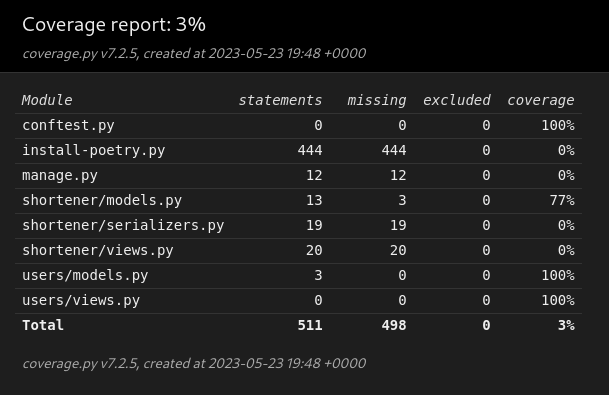
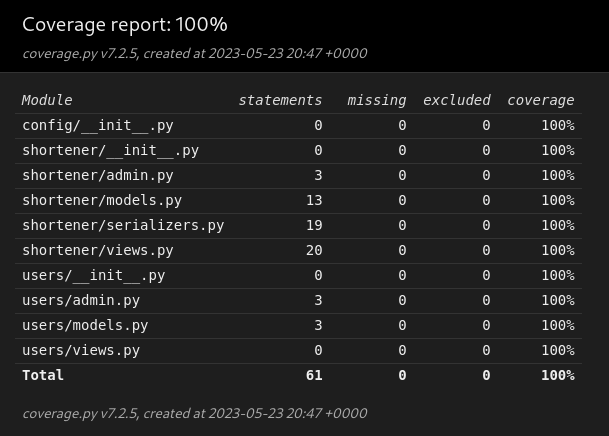
added tests with test fixtures

diff --git a/api/shortener/tests/test_serializers.py b/api/shortener/tests/test_serializers.py
@@ -1,0 +1,31 @@
+from django.test import RequestFactory
+
+from shortener.models import URL
+from shortener.serializers import OriginalURLSerializer, URLSerializer
+
+
+def test_original_url_serializer_valid_serializer(original_url):
+    serializer = OriginalURLSerializer(data={"original_url": original_url})
+
+    assert serializer.is_valid()
+
+
+def test_original_url_serializer_saves_valid_url(original_url, db):
+    serializer = OriginalURLSerializer(data={"original_url": original_url})
+    serializer.is_valid(raise_exception=True)
+    url = serializer.save()
+
+    assert isinstance(url, URL)
+    assert url.original_url == original_url
+
+
+def test_url_serializer_builds_absolute_uri(short_link_db):
+    factory = RequestFactory()
+    request = factory.get(f"/{short_link_db.short_url}/")
+
+    serializer = URLSerializer(instance=short_link_db, context={"request": request})
+
+    short_url = serializer.data["short_url"]
+    expected_url = request.build_absolute_uri("/") + short_link_db.short_url
+
+    assert short_url == expected_url

diff --git a/api/shortener/tests/test_views.py b/api/shortener/tests/test_views.py
@@ -1,0 +1,24 @@
+from rest_framework import status
+from rest_framework.reverse import reverse
+
+from shortener.models import URL
+
+
+def test_create_short_url(api_client, db):
+    url = "/api/v1/urls/"
+    data = {"original_url": "https://docs.python.org/3/"}
+
+    response = api_client.post(url, data, format="json")
+
+    assert response.status_code == status.HTTP_201_CREATED
+    assert URL.objects.count() == 1
+    assert URL.objects.first().original_url == "https://docs.python.org/3/"
+
+
+def test_short_url_redirect(api_client, short_link_db):
+    redirect_url = reverse("shortener:redirect", kwargs={"short_url": short_link_db.short_url})
+
+    response = api_client.get(redirect_url)
+
+    assert response.status_code == status.HTTP_302_FOUND
+    assert response.url == short_link_db.original_url

diff --git a/api/conftest.py b/api/conftest.py
@@ -1,0 +1,20 @@
+import pytest
+
+from shortener.models import URL
+
+
+@pytest.fixture
+def api_client():
+    from rest_framework.test import APIClient
+
+    return APIClient()
+
+
+@pytest.fixture
+def short_link_db(db):
+    return URL.objects.create(original_url="https://docs.python.org/3/", short_url="Abye5ijCD0")
+
+
+@pytest.fixture
+def original_url():
+    return "https://docs.python.org/3/"

diff --git a/api/shortener/models.py b/api/shortener/models.py
@@ -7,7 +7,7 @@ class URL(models.Model):
     created_at = models.DateTimeField(auto_now_add=True)
 
     def __str__(self):
-        return f"{self.url[:30]} -> {self.short_url}"
+        return f"{self.original_url[:30]} -> {self.short_url}"
 
     class Meta:
         verbose_name = "URL"

diff --git a/api/shortener/tests/test_models.py b/api/shortener/tests/test_models.py
@@ -1,0 +1,7 @@
+from shortener.models import URL
+
+
+def test_url_gui_representation():
+    url = URL(original_url="https://www.beano.com/posts/funniest-useless-pointless-facts", short_url="abcdefg")
+
+    assert str(url) == "https://www.beano.com/posts/fu -> abcdefg"
